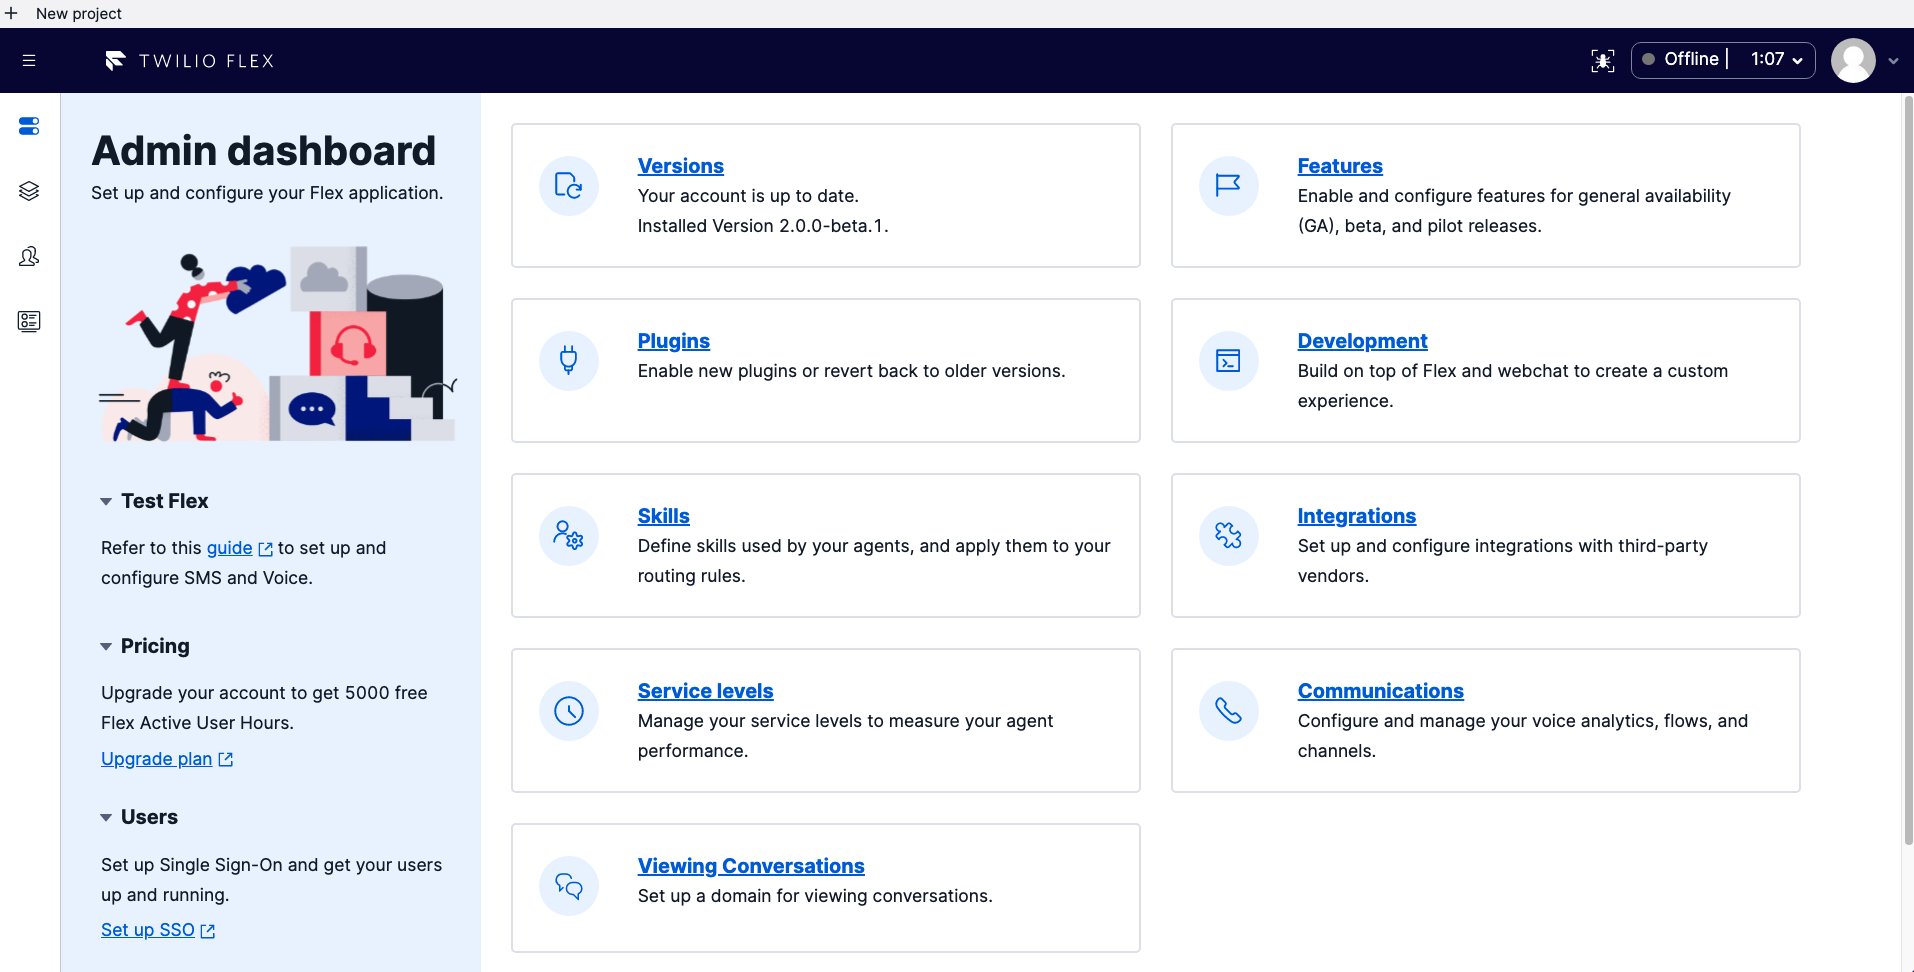
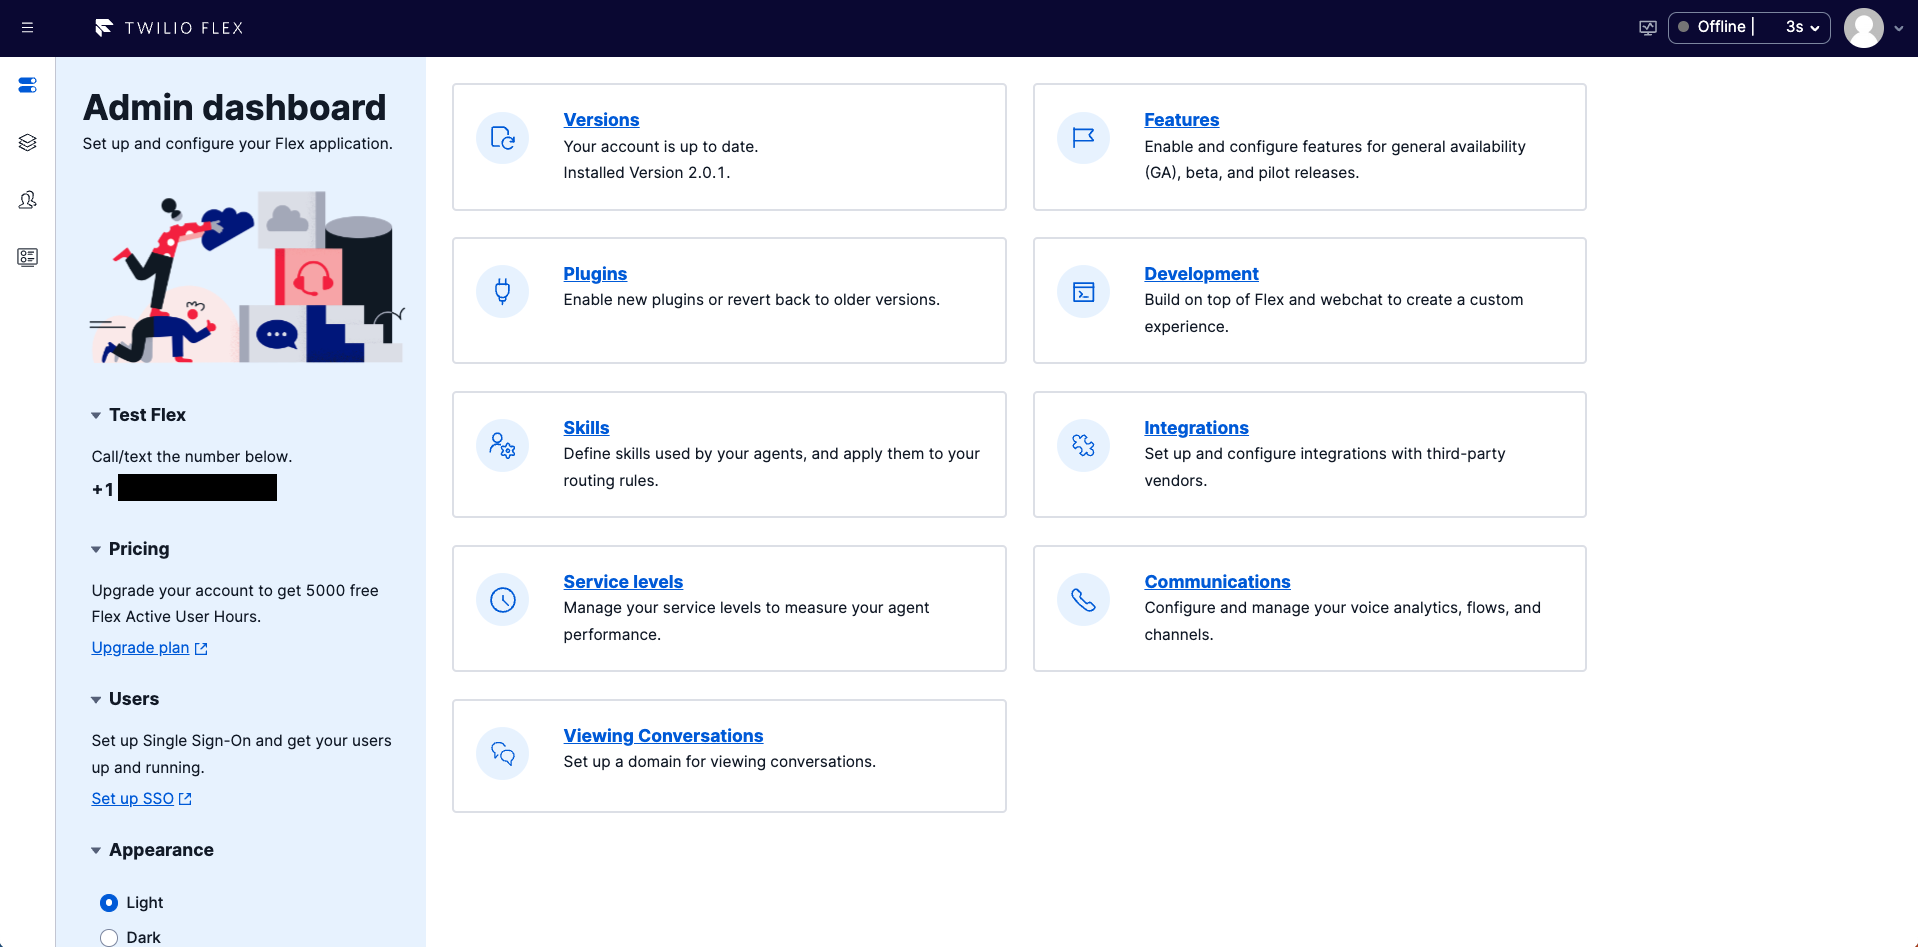
update content to match Flex UI v2 GA

diff --git a/docs/02-Customize-Flow/00-Overview.md b/docs/02-Customize-Flow/00-Overview.md
@@ -1,11 +1,11 @@
 #  ハンズオン: 問い合わせフローをカスタマイズ
 
-現在、すべての問い合わせは担当者（エージェント）に直接送られます。問い合わせ件数が少なければ問題はありませんが、多くなった場合や問い合わせ先が複数の部署となる場合は事前に質問を投げかけ正しいルートへと導く必要があります。
+初期状態の場合、すべての問い合わせは担当者（エージェント）に直接送られます。問い合わせ件数が少なければ問題はありませんが、多くなった場合や問い合わせ先が複数の部署となる場合は事前に質問を投げかけ正しいルートへと導く必要があります。
 
-このハンズオンでは電話による問い合わせを題材にし、Flexで利用されている[Twilio Studio](https://www.twilio.com/ja/studio)を用いて質問を投げかけ、正しいルートへと導くためのデータを収集するフローを作成します。
+このハンズオンでは電話による問い合わせを題材にし、Flexで利用されている[Twilio Studio](https://www.twilio.com/ja/studio)を用いて質問を投げかけ、適切な担当者にアサインするためのデータを収集します。
 
 ---
-Twilio Studioについてさらに詳しく学びたい場合は[Twilio-HandsOn-Studio-JP](https://neri78.github.io/Twilio-HandsOn-Studio-JP/)をご覧ください。
+Twilio Studioについてさらに詳しく学びたい場合は[日本語Twilio Studioハンズオン](https://neri78.github.io/Twilio-HandsOn-Studio-JP/)をご覧ください。
 
 ---
 
@@ -15,7 +15,3 @@ Twilio Studioについてさらに詳しく学びたい場合は[Twilio-HandsOn-
 
 ## 手順
 1. [問い合わせフローをカスタマイズする](01-Customize-Chat-Flow.md)
-
-## 次のハンズオン
-
-- [ハンズオン: スキルの作成と担当者への割り当て](../03-Create-and-Assign-Skills/00-Overview.md)

diff --git a/docs/04-Task-Routing-Queue/01-Create-Queues.md b/docs/04-Task-Routing-Queue/01-Create-Queues.md
@@ -8,20 +8,22 @@
 
 ![Flex Admin Console](../assets/04-Console-TaskRouter.png)
 
-キューの一覧が表示されます。標準ではすべての担当者が属する`Everyone`が表示されています。
+Workspaceではキューの一覧が表示されます。標準ではすべての担当者が属する`Everyone`が表示されています。
 ![Flex TaskQueues](../assets/04-TaskQueues.png)
 
-`View all Task Queues`リンクをクリックします。
+この画面で`View all Task Queues`リンクをクリックします。
 
 遷移先の画面で`+`ボタンをクリックしサポートキューを作成します。
 下記のテーブルの設定値を参考にしてください。
 
 |設定値|値|
 |:----|:----|
-|TASKQUEUE NAME| support |
-|QUEUE EXPRESSION| routing.skills HAS \"support\"|
+|Task Queue Name| support |
+|Reservation Activity| Offline |
+|Assignment Activity| Offline |
+|Target Worker expression| routing.skills HAS \"support\"|
 
-`QUEUE EXPRESSION`が正しく設定されていれば、`Matching Workers`に管理者エージェントが表示されます。
+保存後、作成したsupportキューを開きます。この際、`Target Worker expression`が正しく設定されていれば、`Matching Workers`に管理者エージェントが表示されます。
 
 ![support queue](../assets/04-Support-Queue.png)
 
@@ -32,7 +34,9 @@
 |設定値|値|
 |:----|:----|
 |TASKQUEUE NAME| sales |
-|QUEUE EXPRESSION| routing.skills HAS "sales"|
+|Reservation Activity| Offline |
+|Assignment Activity| Offline |
+|Target Worker expression| routing.skills HAS "sales"|
 
 これでサポート、営業向けキューが追加されました。
 

diff --git a/docs/01-Create-Flex-Project/02-Play-with-Flex.md b/docs/01-Create-Flex-Project/02-Play-with-Flex.md
@@ -4,17 +4,17 @@
 
 ## ステータスをオンラインに変更
 
-Flex画面の右上に表示されている自分自身のステータスを`Online`に変更します。
+Flex画面の右上に表示されている自分自身のステータスを`Available`に変更します。
 
 ![Flex - Status](../assets/01-Flex-Status.jpg)
 
 ## 電話番号を確認
 
-Flexを初期化した場合、米国番号が標準で割り当てられています。
+Flexを初期化した際に着信を受け付ける番号として米国番号が自動的に割り当てられます。今回のハンズオンではこの番号に電話をかけて動作を確認します。そのため、番号を控えてください。この番号は[`Phone Numbers`](https://www.twilio.com/console/phone-numbers/incoming)コンソールから設定を変更できます。
 
-番号は`Phone Numbers`コンソールで確認できます。[こちら](https://www.twilio.com/console/phone-numbers/incoming)のリンクを開き確認します。下記のスクリーンショットを確認してください。
 
-![Console - Phone Number](../assets/01-Console-Phone-Number.png)
+![Flex - US number](../assets/01-Flex-Admin-Number.png)
+
 
 この番号に電話をかけるとFlexの担当者に接続することができます。
 

diff --git a/docs/05-Task-Routing-Workflow/01-Setup-Workflow.md b/docs/05-Task-Routing-Workflow/01-Setup-Workflow.md
@@ -36,16 +36,18 @@
 
 ![Support Queue](../assets/05-queue-overview.png)
 
+続いて営業部門に問い合わせた際にはフィルタ条件に合致していないので、初期の`Everyone`キューに通話がルーティングされていることを確認してください。
 
 ## まとめ
 
 これでハンズオンは終了です。今回学習した項目は下記の通りです。
 
+- `Twilio Flex`の立ち上げ
 - `Studio`を使った問い合わせフローのカスタマイズ
 - スキルの作成と割り当て
 - `TaskRouter` - `TaskQueue`を使ったキューの作成
 - `TaskRouter` - `Workflow`を使ったタスクフローのカスタマイズ
 
-今回はフィルタ機能を使ってキューをわりふりましたが、別の方法も利用できます。詳細については次のチュートリアルをご覧ください。
+今回はフィルタ機能を使ってルーティングを行いましたが、別の方法も利用できます。詳細については次のチュートリアルをご覧ください。
 
 [Twilio Flex Quickstart (Advanced): Multiple Users and Skills-based Routing](https://www.twilio.com/docs/flex/quickstart/flex-routing-skills)

diff --git a/docs/03-Create-and-Assign-Skills/01-Create-Skills-and-Assign.md b/docs/03-Create-and-Assign-Skills/01-Create-Skills-and-Assign.md
@@ -29,7 +29,7 @@ Flex Admin画面を開き、`Skills`ボタンをクリックします。
 
 ![Flex - add skill to agent](../assets/03-Add-Skills.png)
 
-スキルが表示されない場合は、一旦タブをクローズし、[Flex](https://flex.twilio.com/)を再度開いてください。
+スキルが表示されない場合は、ページをリロードし再度開いてください。
 
 これでサポートスキルが管理者エージェントに追加されました。
 

diff --git a/docs/04-Task-Routing-Queue/00-Overview.md b/docs/04-Task-Routing-Queue/00-Overview.md
@@ -5,11 +5,3 @@
 ## ハンズオンのゴール
 - TaskRouterの利用方法を理解する
 - キューを作成する
-
-## 手順
-1. [キューを作成する](01-Create-Queues.md)
-
-## 次のハンズオン
-
-- [ハンズオン: タスクルーティング - タスクフローを設定](../05-Task-Routing-Workflow/00-Overview.md)
-

diff --git a/docs/03-Create-and-Assign-Skills/00-Overview.md b/docs/03-Create-and-Assign-Skills/00-Overview.md
@@ -8,7 +8,3 @@
 
 ## 手順
 1. [スキルの作成と担当者への設定](01-Create-Skills-and-Assign.md)
-
-## 次のハンズオン
-
-- [ハンズオン: タスクルーティング - 部門別問い合わせキューを作成](../04-Task-Routing-Queue/00-Overview.md)

diff --git a/docs/01-Create-Flex-Project/00-Overview.md b/docs/01-Create-Flex-Project/00-Overview.md
@@ -8,9 +8,3 @@
 
 ## 手順
 1. [Twilioアカウントと、Flexプロジェクトを作成](01-CreateFlexProject.md)
-
-## 次のハンズオン
-
-- [ハンズオン: 問い合わせフローをカスタマイズ](../docs/02-Customize-Flow/00-Overview.html)
-
-
